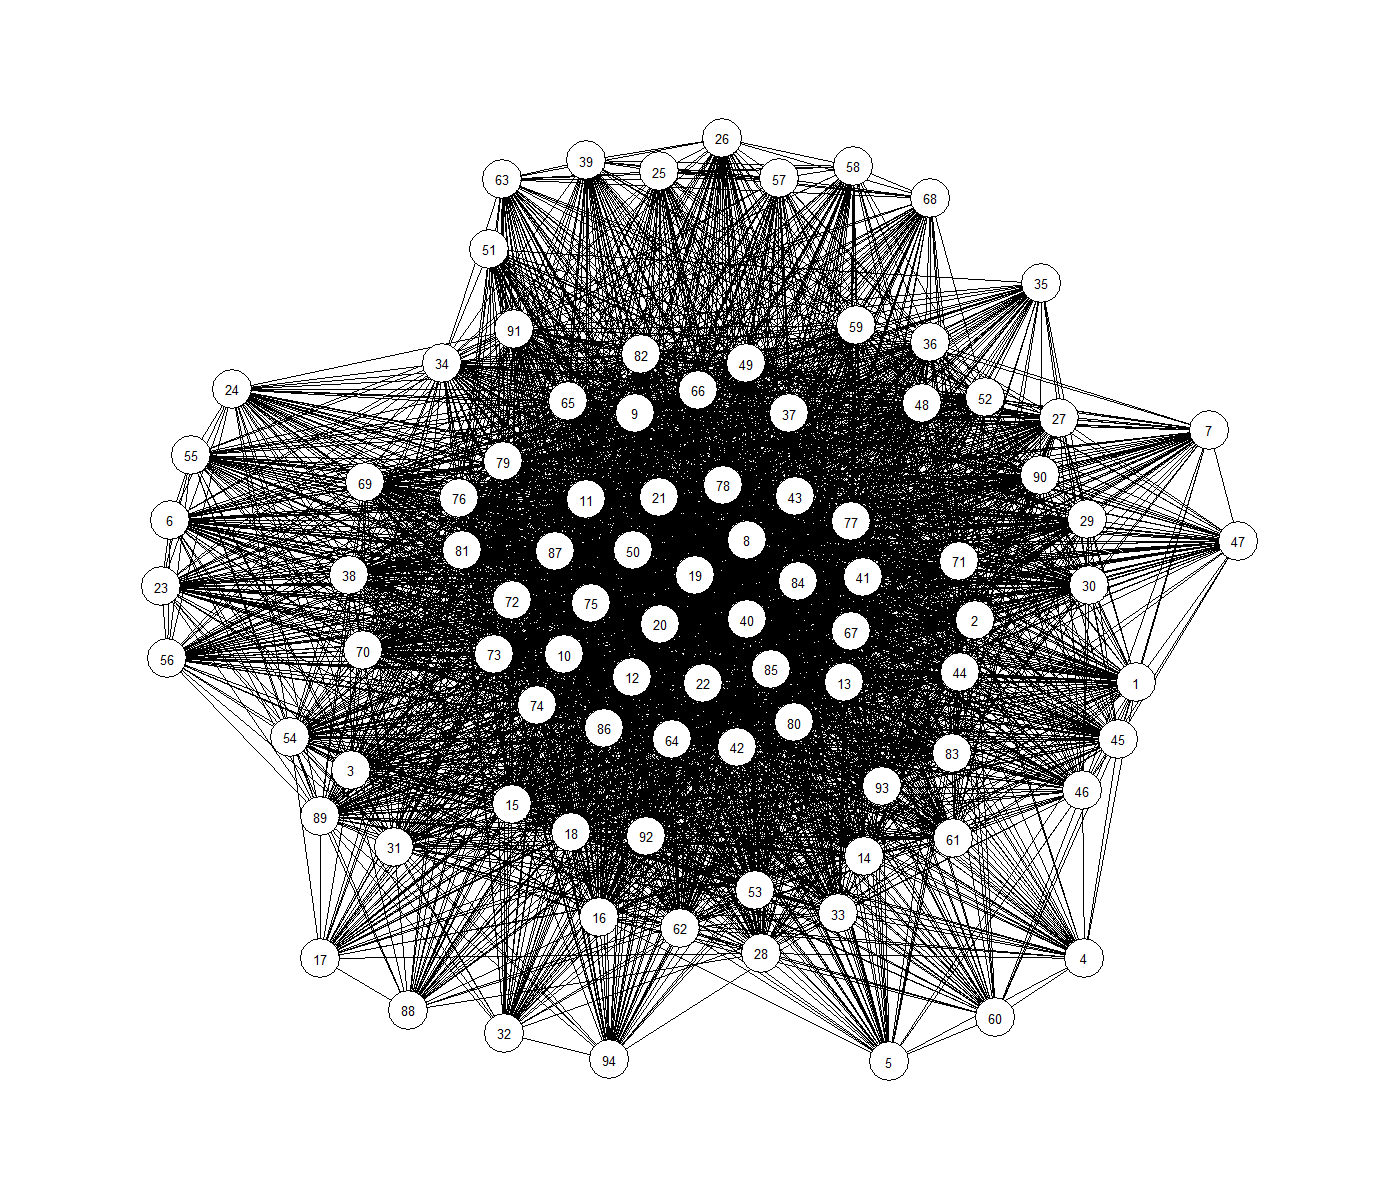
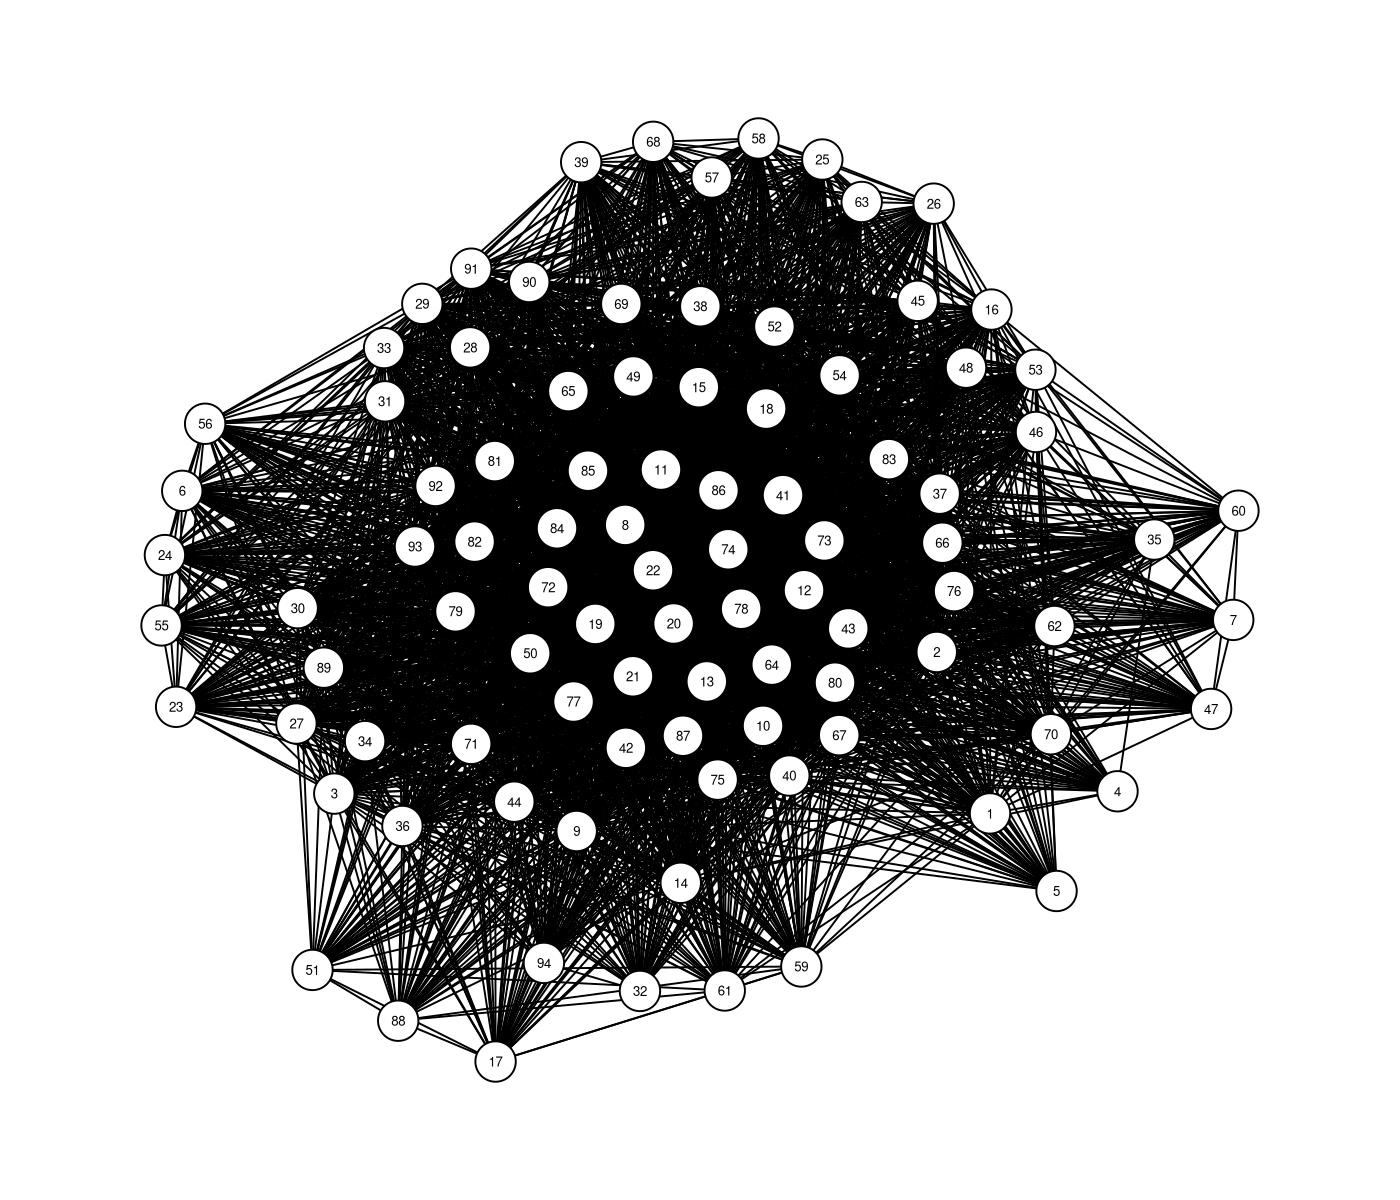
Baseline output snapshot before the worker-type relabel re-run
Commit the current on-disk state of every back-half table/figure so the
re-run under the fixed worker-type labeling (69281bd) shows up as a clean
git diff. All 59 table/figure outputs in the check_outputs_refreshed
manifest are now tracked; previously 09_total_orgcost_dist.png was not.

- 09_total_orgcost_dist.png: new output of 09_invert_gammas.R (untracked
  until now), on old labels.
- 06c_wage_{eigenvalues,perturbation}.tex: regenerated at Richardson r = 2,
  still on old labels.
- 01_network_2019_*.png: step-01 figures from the local re-run; these already
  carry the NEW labels.
- check_outputs_refreshed.R: register 09_total_orgcost_dist.png and the 12b
  block in the refresh manifest.

Changed region(s): [[0.0921, 0.0925, 0.8907, 0.8942]]

diff --git a/results/out/tables/06c_wage_perturbation.tex b/results/out/tables/06c_wage_perturbation.tex
@@ -6,14 +6,14 @@
   \toprule
 County & Step & $f(x^* + s v)$ & Polish ssq & Polish conv. \\ 
   \midrule
-36061 & -100.00 & 0.01083 & 0.007875 &   0 \\ 
-  36061 & -50.00 & 0.008513 & 0.002888 &   0 \\ 
-  36061 & -10.00 & 0.002754 & 0.0001184 &   0 \\ 
-  36061 & -1.00 & 0.0001089 & 5.734e-05 &   0 \\ 
-  36061 & 1.00 & 0.0001592 & 3.34e-05 &   0 \\ 
-  36061 & 10.00 & 0.01454 & 0.0002037 &   0 \\ 
-  36061 & 50.00 & 0.04402 & 0.006443 &   0 \\ 
-  36061 & 100.00 & 0.04772 & 0.009665 &   0 \\ 
+6037 & -100.00 & 0.1748 & 0.1748 &   0 \\ 
+  6037 & -50.00 & 0.1282 & 0.00338 &   0 \\ 
+  6037 & -10.00 & 0.0505 & 0.0018 &   0 \\ 
+  6037 & -1.00 & 0.0002087 & 0.0001988 &   0 \\ 
+  6037 & 1.00 & 0.0001795 & 0.0001423 &   0 \\ 
+  6037 & 10.00 & 0.008629 & 0.005419 &   0 \\ 
+  6037 & 50.00 & 0.09044 & 0.01439 &   0 \\ 
+  6037 & 100.00 & 0.1142 & 0.01863 &   0 \\ 
    \bottomrule
 \end{tabular}
 \end{table}

diff --git a/results/out/tables/06c_wage_eigenvalues.tex b/results/out/tables/06c_wage_eigenvalues.tex
@@ -6,9 +6,9 @@
   \toprule
 County & $f(x^*)$ & $\lambda_1$ (max) & $\lambda_2$ & $\lambda_3$ & $\lambda_4$ (min) & Cond. \# & Verdict \\ 
   \midrule
-17031 & 3.734e-16 & 0.000223 & 9.77e-05 & 3.82e-05 & 1.18e-06 & 189 & strict local min \\ 
-  36061 & 1.256e-08 & 0.000548 & 0.000142 & 1.13e-05 & -1.6e-05 & -- & saddle (eigenvalue $<0$) (perturbation does not confirm) \\ 
-  6037 & 3.737e-09 & 0.0156 & 0.00585 & 0.00364 & 5.91e-05 & 264 & strict local min \\ 
+17031 & 3.734e-16 & 0.000596 & 0.000221 & 2.74e-05 & 1.16e-06 & 512 & strict local min \\ 
+  36061 & 1.945e-10 & 0.00523 & 0.00205 & 6.35e-05 & 1.82e-05 & 287 & strict local min \\ 
+  6037 & 4.157e-13 & 0.0314 & 0.0125 & 0.00558 & -0.000924 & -- & saddle (eigenvalue $<0$) (perturbation does not confirm) \\ 
    \bottomrule
 \end{tabular}
 \end{table}